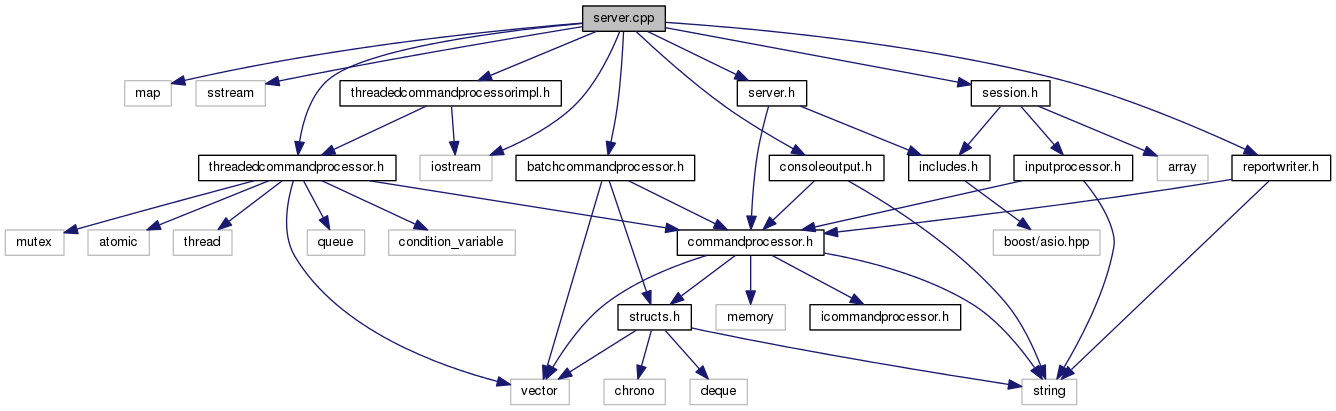
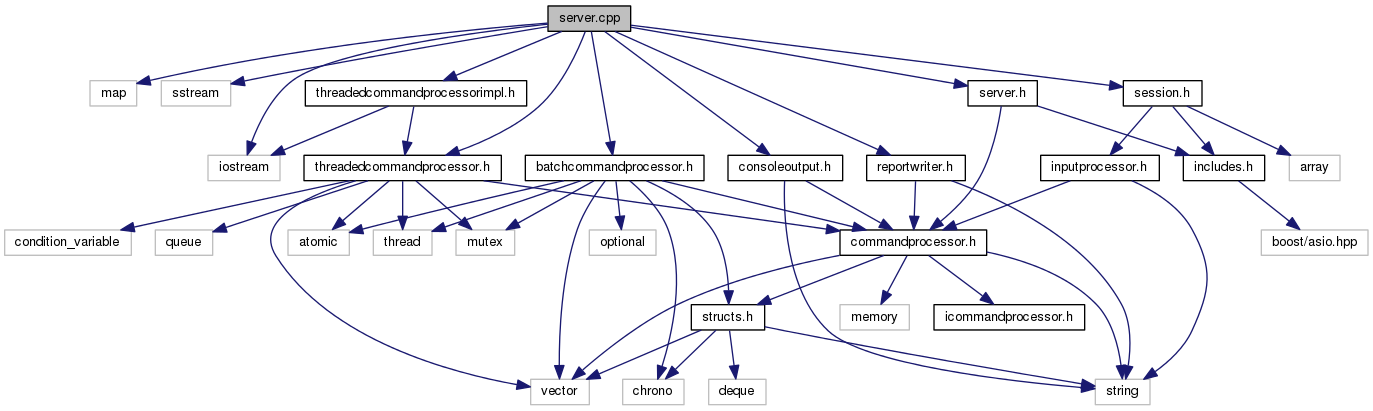
Deploy mgorshkov/bulk_server to github.com/mgorshkov/bulk_server.git:gh-pages

diff --git a/threadedcommandprocessorimpl_8h_source.html b/threadedcommandprocessorimpl_8h_source.html
@@ -147,68 +147,57 @@ var searchBox = new SearchBox("searchBox", "search",false,'Search');
 <div class="line"><a name="l00062"></a><span class="lineno">   62</span>&#160;<span class="preprocessor">#ifdef DEBUG_PRINT</span></div>
 <div class="line"><a name="l00063"></a><span class="lineno">   63</span>&#160;<span class="preprocessor"></span>    std::cout &lt;&lt; <span class="stringliteral">&quot;ThreadedCommandProcessor&lt;DependentProcessor&gt;::Stop()&quot;</span> &lt;&lt; <span class="keyword">this</span> &lt;&lt; std::endl;</div>
 <div class="line"><a name="l00064"></a><span class="lineno">   64</span>&#160;<span class="preprocessor">#endif</span></div>
-<div class="line"><a name="l00065"></a><span class="lineno">   65</span>&#160;<span class="preprocessor"></span><span class="comment">//    mDone = true;</span></div>
-<div class="line"><a name="l00066"></a><span class="lineno">   66</span>&#160;<span class="comment">//    mCondition.notify_all();</span></div>
-<div class="line"><a name="l00067"></a><span class="lineno">   67</span>&#160;<span class="preprocessor">#ifdef DEBUG_PRINT</span></div>
-<div class="line"><a name="l00068"></a><span class="lineno">   68</span>&#160;<span class="preprocessor"></span>    std::cout &lt;&lt; <span class="stringliteral">&quot;ThreadedCommandProcessor&lt;DependentProcessor&gt;::Stop2()&quot;</span> &lt;&lt; <span class="keyword">this</span> &lt;&lt; std::endl;</div>
-<div class="line"><a name="l00069"></a><span class="lineno">   69</span>&#160;<span class="preprocessor">#endif</span></div>
-<div class="line"><a name="l00070"></a><span class="lineno">   70</span>&#160;<span class="preprocessor"></span><span class="comment">//    for (auto&amp; thread : mThreads)</span></div>
-<div class="line"><a name="l00071"></a><span class="lineno">   71</span>&#160;<span class="comment">//        if (thread.joinable())</span></div>
-<div class="line"><a name="l00072"></a><span class="lineno">   72</span>&#160; <span class="comment">//           thread.join();</span></div>
-<div class="line"><a name="l00073"></a><span class="lineno">   73</span>&#160;<span class="preprocessor">#ifdef DEBUG_PRINT</span></div>
-<div class="line"><a name="l00074"></a><span class="lineno">   74</span>&#160;<span class="preprocessor"></span>    std::cout &lt;&lt; <span class="stringliteral">&quot;ThreadedCommandProcessor&lt;DependentProcessor&gt;::Stop3()&quot;</span> &lt;&lt; <span class="keyword">this</span> &lt;&lt; std::endl;</div>
-<div class="line"><a name="l00075"></a><span class="lineno">   75</span>&#160;<span class="preprocessor">#endif</span></div>
-<div class="line"><a name="l00076"></a><span class="lineno">   76</span>&#160;<span class="preprocessor"></span>    <a class="code" href="classCommandProcessor.html#ab72537797793061c66374da42f1944cd">CommandProcessor::Stop</a>();</div>
-<div class="line"><a name="l00077"></a><span class="lineno">   77</span>&#160;<span class="preprocessor">#ifdef DEBUG_PRINT</span></div>
-<div class="line"><a name="l00078"></a><span class="lineno">   78</span>&#160;<span class="preprocessor"></span>    std::cout &lt;&lt; <span class="stringliteral">&quot;ThreadedCommandProcessor&lt;DependentProcessor&gt;::Stop4()&quot;</span> &lt;&lt; <span class="keyword">this</span> &lt;&lt; std::endl;</div>
-<div class="line"><a name="l00079"></a><span class="lineno">   79</span>&#160;<span class="preprocessor">#endif</span></div>
-<div class="line"><a name="l00080"></a><span class="lineno">   80</span>&#160;<span class="preprocessor"></span>}</div>
-<div class="line"><a name="l00081"></a><span class="lineno">   81</span>&#160;</div>
-<div class="line"><a name="l00082"></a><span class="lineno">   82</span>&#160;<span class="keyword">template</span> &lt;<span class="keyword">typename</span> DependentProcessor&gt;</div>
-<div class="line"><a name="l00083"></a><span class="lineno">   83</span>&#160;<span class="keywordtype">void</span> <a class="code" href="classThreadedCommandProcessor.html">ThreadedCommandProcessor&lt;DependentProcessor&gt;::ThreadProc</a>(<span class="keyword">const</span> std::string&amp; aName)</div>
-<div class="line"><a name="l00084"></a><span class="lineno">   84</span>&#160;{</div>
-<div class="line"><a name="l00085"></a><span class="lineno">   85</span>&#160;<span class="preprocessor">#ifdef DEBUG_PRINT</span></div>
-<div class="line"><a name="l00086"></a><span class="lineno">   86</span>&#160;<span class="preprocessor"></span>    std::cout &lt;&lt; <span class="stringliteral">&quot;ThreadedCommandProcessor::ThreadProc start, this==&quot;</span> &lt;&lt; <span class="keyword">this</span> &lt;&lt; std::endl;</div>
-<div class="line"><a name="l00087"></a><span class="lineno">   87</span>&#160;<span class="preprocessor">#endif</span></div>
-<div class="line"><a name="l00088"></a><span class="lineno">   88</span>&#160;<span class="preprocessor"></span>    <span class="keywordflow">try</span></div>
-<div class="line"><a name="l00089"></a><span class="lineno">   89</span>&#160;    {</div>
-<div class="line"><a name="l00090"></a><span class="lineno">   90</span>&#160;        DependentProcessor dependentProcessor(aName);</div>
-<div class="line"><a name="l00091"></a><span class="lineno">   91</span>&#160;</div>
-<div class="line"><a name="l00092"></a><span class="lineno">   92</span>&#160;<span class="preprocessor">#ifdef DEBUG_PRINT</span></div>
-<div class="line"><a name="l00093"></a><span class="lineno">   93</span>&#160;<span class="preprocessor"></span>        std::cout &lt;&lt; <span class="stringliteral">&quot;ThreadedCommandProcessor::ThreadProc 1, this==&quot;</span> &lt;&lt; <span class="keyword">this</span> &lt;&lt; <span class="stringliteral">&quot; &quot;</span> &lt;&lt; aProcessor-&gt;mContext &lt;&lt; std::endl;</div>
-<div class="line"><a name="l00094"></a><span class="lineno">   94</span>&#160;<span class="preprocessor">#endif</span></div>
-<div class="line"><a name="l00095"></a><span class="lineno">   95</span>&#160;<span class="preprocessor"></span>        <span class="keywordflow">while</span> (!mDone.load())</div>
-<div class="line"><a name="l00096"></a><span class="lineno">   96</span>&#160;        {</div>
-<div class="line"><a name="l00097"></a><span class="lineno">   97</span>&#160;            std::unique_lock&lt;std::mutex&gt; lk(mQueueMutex);</div>
-<div class="line"><a name="l00098"></a><span class="lineno">   98</span>&#160;            <span class="keywordflow">while</span> (mQueue.empty() &amp;&amp; !mDone.load())</div>
-<div class="line"><a name="l00099"></a><span class="lineno">   99</span>&#160;                mCondition.wait(lk);</div>
-<div class="line"><a name="l00100"></a><span class="lineno">  100</span>&#160;            ProcessQueue(lk, dependentProcessor);</div>
-<div class="line"><a name="l00101"></a><span class="lineno">  101</span>&#160;        }</div>
-<div class="line"><a name="l00102"></a><span class="lineno">  102</span>&#160;        dependentProcessor.Stop();</div>
-<div class="line"><a name="l00103"></a><span class="lineno">  103</span>&#160;    }</div>
-<div class="line"><a name="l00104"></a><span class="lineno">  104</span>&#160;    <span class="keywordflow">catch</span> (<span class="keyword">const</span> std::exception &amp;e)</div>
-<div class="line"><a name="l00105"></a><span class="lineno">  105</span>&#160;    {</div>
-<div class="line"><a name="l00106"></a><span class="lineno">  106</span>&#160;        std::cerr &lt;&lt; e.what() &lt;&lt; std::endl;</div>
-<div class="line"><a name="l00107"></a><span class="lineno">  107</span>&#160;    }</div>
-<div class="line"><a name="l00108"></a><span class="lineno">  108</span>&#160;<span class="preprocessor">#ifdef DEBUG_PRINT</span></div>
-<div class="line"><a name="l00109"></a><span class="lineno">  109</span>&#160;<span class="preprocessor"></span>    std::cout &lt;&lt; <span class="stringliteral">&quot;ThreadedCommandProcessor::ThreadProc end, this==&quot;</span> &lt;&lt; aProcessor &lt;&lt; std::endl;</div>
-<div class="line"><a name="l00110"></a><span class="lineno">  110</span>&#160;<span class="preprocessor">#endif</span></div>
-<div class="line"><a name="l00111"></a><span class="lineno">  111</span>&#160;<span class="preprocessor"></span>}</div>
-<div class="line"><a name="l00112"></a><span class="lineno">  112</span>&#160;</div>
-<div class="line"><a name="l00113"></a><span class="lineno">  113</span>&#160;<span class="keyword">template</span> &lt;<span class="keyword">typename</span> DependentProcessor&gt;</div>
-<div class="line"><a name="l00114"></a><span class="lineno">  114</span>&#160;<span class="keywordtype">void</span> <a class="code" href="classThreadedCommandProcessor.html">ThreadedCommandProcessor&lt;DependentProcessor&gt;::ProcessQueue</a>(std::unique_lock&lt;std::mutex&gt;&amp; lk, <a class="code" href="classCommandProcessor.html">CommandProcessor</a>&amp; aDependentProcessor)</div>
-<div class="line"><a name="l00115"></a><span class="lineno">  115</span>&#160;{</div>
-<div class="line"><a name="l00116"></a><span class="lineno">  116</span>&#160;    std::queue&lt;CommandBatch&gt; queue;</div>
-<div class="line"><a name="l00117"></a><span class="lineno">  117</span>&#160;    std::swap(mQueue, queue);</div>
-<div class="line"><a name="l00118"></a><span class="lineno">  118</span>&#160;    lk.unlock();</div>
-<div class="line"><a name="l00119"></a><span class="lineno">  119</span>&#160;    <span class="keywordflow">while</span> (!queue.empty())</div>
-<div class="line"><a name="l00120"></a><span class="lineno">  120</span>&#160;    {</div>
-<div class="line"><a name="l00121"></a><span class="lineno">  121</span>&#160;        <span class="keyword">auto</span> commandBatch = queue.front();</div>
-<div class="line"><a name="l00122"></a><span class="lineno">  122</span>&#160;        queue.pop();</div>
-<div class="line"><a name="l00123"></a><span class="lineno">  123</span>&#160;        aDependentProcessor.<a class="code" href="classCommandProcessor.html#a68124cc0f45ebfbfd503c46ccd130fab">ProcessBatch</a>(commandBatch);</div>
-<div class="line"><a name="l00124"></a><span class="lineno">  124</span>&#160;    }</div>
-<div class="line"><a name="l00125"></a><span class="lineno">  125</span>&#160;}</div>
-<div class="line"><a name="l00126"></a><span class="lineno">  126</span>&#160;</div>
+<div class="line"><a name="l00065"></a><span class="lineno">   65</span>&#160;<span class="preprocessor"></span>    <a class="code" href="classCommandProcessor.html#ab72537797793061c66374da42f1944cd">CommandProcessor::Stop</a>();</div>
+<div class="line"><a name="l00066"></a><span class="lineno">   66</span>&#160;<span class="preprocessor">#ifdef DEBUG_PRINT</span></div>
+<div class="line"><a name="l00067"></a><span class="lineno">   67</span>&#160;<span class="preprocessor"></span>    std::cout &lt;&lt; <span class="stringliteral">&quot;ThreadedCommandProcessor&lt;DependentProcessor&gt;::Stop2()&quot;</span> &lt;&lt; <span class="keyword">this</span> &lt;&lt; std::endl;</div>
+<div class="line"><a name="l00068"></a><span class="lineno">   68</span>&#160;<span class="preprocessor">#endif</span></div>
+<div class="line"><a name="l00069"></a><span class="lineno">   69</span>&#160;<span class="preprocessor"></span>}</div>
+<div class="line"><a name="l00070"></a><span class="lineno">   70</span>&#160;</div>
+<div class="line"><a name="l00071"></a><span class="lineno">   71</span>&#160;<span class="keyword">template</span> &lt;<span class="keyword">typename</span> DependentProcessor&gt;</div>
+<div class="line"><a name="l00072"></a><span class="lineno">   72</span>&#160;<span class="keywordtype">void</span> <a class="code" href="classThreadedCommandProcessor.html">ThreadedCommandProcessor&lt;DependentProcessor&gt;::ThreadProc</a>(<span class="keyword">const</span> std::string&amp; aName)</div>
+<div class="line"><a name="l00073"></a><span class="lineno">   73</span>&#160;{</div>
+<div class="line"><a name="l00074"></a><span class="lineno">   74</span>&#160;<span class="preprocessor">#ifdef DEBUG_PRINT</span></div>
+<div class="line"><a name="l00075"></a><span class="lineno">   75</span>&#160;<span class="preprocessor"></span>    std::cout &lt;&lt; <span class="stringliteral">&quot;ThreadedCommandProcessor::ThreadProc start, this==&quot;</span> &lt;&lt; <span class="keyword">this</span> &lt;&lt; std::endl;</div>
+<div class="line"><a name="l00076"></a><span class="lineno">   76</span>&#160;<span class="preprocessor">#endif</span></div>
+<div class="line"><a name="l00077"></a><span class="lineno">   77</span>&#160;<span class="preprocessor"></span>    <span class="keywordflow">try</span></div>
+<div class="line"><a name="l00078"></a><span class="lineno">   78</span>&#160;    {</div>
+<div class="line"><a name="l00079"></a><span class="lineno">   79</span>&#160;        DependentProcessor dependentProcessor(aName);</div>
+<div class="line"><a name="l00080"></a><span class="lineno">   80</span>&#160;</div>
+<div class="line"><a name="l00081"></a><span class="lineno">   81</span>&#160;<span class="preprocessor">#ifdef DEBUG_PRINT</span></div>
+<div class="line"><a name="l00082"></a><span class="lineno">   82</span>&#160;<span class="preprocessor"></span>        std::cout &lt;&lt; <span class="stringliteral">&quot;ThreadedCommandProcessor::ThreadProc 1, this==&quot;</span> &lt;&lt; <span class="keyword">this</span> &lt;&lt; <span class="stringliteral">&quot; &quot;</span> &lt;&lt; aProcessor-&gt;mContext &lt;&lt; std::endl;</div>
+<div class="line"><a name="l00083"></a><span class="lineno">   83</span>&#160;<span class="preprocessor">#endif</span></div>
+<div class="line"><a name="l00084"></a><span class="lineno">   84</span>&#160;<span class="preprocessor"></span>        <span class="keywordflow">while</span> (!mDone.load())</div>
+<div class="line"><a name="l00085"></a><span class="lineno">   85</span>&#160;        {</div>
+<div class="line"><a name="l00086"></a><span class="lineno">   86</span>&#160;            std::unique_lock&lt;std::mutex&gt; lk(mQueueMutex);</div>
+<div class="line"><a name="l00087"></a><span class="lineno">   87</span>&#160;            <span class="keywordflow">while</span> (mQueue.empty() &amp;&amp; !mDone.load())</div>
+<div class="line"><a name="l00088"></a><span class="lineno">   88</span>&#160;                mCondition.wait(lk);</div>
+<div class="line"><a name="l00089"></a><span class="lineno">   89</span>&#160;            ProcessQueue(lk, dependentProcessor);</div>
+<div class="line"><a name="l00090"></a><span class="lineno">   90</span>&#160;        }</div>
+<div class="line"><a name="l00091"></a><span class="lineno">   91</span>&#160;        dependentProcessor.Stop();</div>
+<div class="line"><a name="l00092"></a><span class="lineno">   92</span>&#160;    }</div>
+<div class="line"><a name="l00093"></a><span class="lineno">   93</span>&#160;    <span class="keywordflow">catch</span> (<span class="keyword">const</span> std::exception &amp;e)</div>
+<div class="line"><a name="l00094"></a><span class="lineno">   94</span>&#160;    {</div>
+<div class="line"><a name="l00095"></a><span class="lineno">   95</span>&#160;        std::cerr &lt;&lt; e.what() &lt;&lt; std::endl;</div>
+<div class="line"><a name="l00096"></a><span class="lineno">   96</span>&#160;    }</div>
+<div class="line"><a name="l00097"></a><span class="lineno">   97</span>&#160;<span class="preprocessor">#ifdef DEBUG_PRINT</span></div>
+<div class="line"><a name="l00098"></a><span class="lineno">   98</span>&#160;<span class="preprocessor"></span>    std::cout &lt;&lt; <span class="stringliteral">&quot;ThreadedCommandProcessor::ThreadProc end, this==&quot;</span> &lt;&lt; aProcessor &lt;&lt; std::endl;</div>
+<div class="line"><a name="l00099"></a><span class="lineno">   99</span>&#160;<span class="preprocessor">#endif</span></div>
+<div class="line"><a name="l00100"></a><span class="lineno">  100</span>&#160;<span class="preprocessor"></span>}</div>
+<div class="line"><a name="l00101"></a><span class="lineno">  101</span>&#160;</div>
+<div class="line"><a name="l00102"></a><span class="lineno">  102</span>&#160;<span class="keyword">template</span> &lt;<span class="keyword">typename</span> DependentProcessor&gt;</div>
+<div class="line"><a name="l00103"></a><span class="lineno">  103</span>&#160;<span class="keywordtype">void</span> <a class="code" href="classThreadedCommandProcessor.html">ThreadedCommandProcessor&lt;DependentProcessor&gt;::ProcessQueue</a>(std::unique_lock&lt;std::mutex&gt;&amp; lk, <a class="code" href="classCommandProcessor.html">CommandProcessor</a>&amp; aDependentProcessor)</div>
+<div class="line"><a name="l00104"></a><span class="lineno">  104</span>&#160;{</div>
+<div class="line"><a name="l00105"></a><span class="lineno">  105</span>&#160;    std::queue&lt;CommandBatch&gt; queue;</div>
+<div class="line"><a name="l00106"></a><span class="lineno">  106</span>&#160;    std::swap(mQueue, queue);</div>
+<div class="line"><a name="l00107"></a><span class="lineno">  107</span>&#160;    lk.unlock();</div>
+<div class="line"><a name="l00108"></a><span class="lineno">  108</span>&#160;    <span class="keywordflow">while</span> (!queue.empty())</div>
+<div class="line"><a name="l00109"></a><span class="lineno">  109</span>&#160;    {</div>
+<div class="line"><a name="l00110"></a><span class="lineno">  110</span>&#160;        <span class="keyword">auto</span> commandBatch = queue.front();</div>
+<div class="line"><a name="l00111"></a><span class="lineno">  111</span>&#160;        queue.pop();</div>
+<div class="line"><a name="l00112"></a><span class="lineno">  112</span>&#160;        aDependentProcessor.<a class="code" href="classCommandProcessor.html#a68124cc0f45ebfbfd503c46ccd130fab">ProcessBatch</a>(commandBatch);</div>
+<div class="line"><a name="l00113"></a><span class="lineno">  113</span>&#160;    }</div>
+<div class="line"><a name="l00114"></a><span class="lineno">  114</span>&#160;}</div>
+<div class="line"><a name="l00115"></a><span class="lineno">  115</span>&#160;</div>
 <div class="ttc" id="classThreadedCommandProcessor_html_adc17729e4ddbcc4e800ef4553b9c1841"><div class="ttname"><a href="classThreadedCommandProcessor.html#adc17729e4ddbcc4e800ef4553b9c1841">ThreadedCommandProcessor::ProcessBatch</a></div><div class="ttdeci">void ProcessBatch(const CommandBatch &amp;aCommandBatch) override</div><div class="ttdef"><b>Definition:</b> threadedcommandprocessorimpl.h:41</div></div>
 <div class="ttc" id="classCommandProcessor_html_ab72537797793061c66374da42f1944cd"><div class="ttname"><a href="classCommandProcessor.html#ab72537797793061c66374da42f1944cd">CommandProcessor::Stop</a></div><div class="ttdeci">void Stop() override</div><div class="ttdef"><b>Definition:</b> commandprocessor.cpp:49</div></div>
 <div class="ttc" id="classThreadedCommandProcessor_html_a95d4f3e4b770522ea8913e15e2d1b29f"><div class="ttname"><a href="classThreadedCommandProcessor.html#a95d4f3e4b770522ea8913e15e2d1b29f">ThreadedCommandProcessor::Stop</a></div><div class="ttdeci">void Stop() override</div><div class="ttdef"><b>Definition:</b> threadedcommandprocessorimpl.h:60</div></div>

diff --git a/batchcommandprocessor_8h_source.html b/batchcommandprocessor_8h_source.html
@@ -87,39 +87,50 @@ var searchBox = new SearchBox("searchBox", "search",false,'Search');
 <a href="batchcommandprocessor_8h.html">Go to the documentation of this file.</a><div class="fragment"><div class="line"><a name="l00001"></a><span class="lineno">    1</span>&#160;<span class="preprocessor">#pragma once</span></div>
 <div class="line"><a name="l00002"></a><span class="lineno">    2</span>&#160;<span class="preprocessor"></span></div>
 <div class="line"><a name="l00003"></a><span class="lineno">    3</span>&#160;<span class="preprocessor">#include &lt;vector&gt;</span></div>
-<div class="line"><a name="l00004"></a><span class="lineno">    4</span>&#160;</div>
-<div class="line"><a name="l00005"></a><span class="lineno">    5</span>&#160;<span class="preprocessor">#include &quot;<a class="code" href="structs_8h.html">structs.h</a>&quot;</span></div>
-<div class="line"><a name="l00006"></a><span class="lineno">    6</span>&#160;<span class="preprocessor">#include &quot;<a class="code" href="commandprocessor_8h.html">commandprocessor.h</a>&quot;</span></div>
-<div class="line"><a name="l00007"></a><span class="lineno">    7</span>&#160;</div>
-<div class="line"><a name="l00008"></a><span class="lineno"><a class="line" href="classBatchCommandProcessor.html">    8</a></span>&#160;<span class="keyword">class </span><a class="code" href="classBatchCommandProcessor.html">BatchCommandProcessor</a> : <span class="keyword">public</span> <a class="code" href="classCommandProcessor.html">CommandProcessor</a></div>
-<div class="line"><a name="l00009"></a><span class="lineno">    9</span>&#160;{</div>
-<div class="line"><a name="l00010"></a><span class="lineno">   10</span>&#160;<span class="keyword">public</span>:</div>
-<div class="line"><a name="l00011"></a><span class="lineno">   11</span>&#160;    <a class="code" href="classBatchCommandProcessor.html#ab3ad2e6e28139e48de42c2ee974c49e5">BatchCommandProcessor</a>(<span class="keyword">const</span> std::string&amp; aName, std::size_t aBulkSize, <span class="keyword">const</span> <a class="code" href="commandprocessor_8h.html#a9cf347a754bf63f614ac03897127ab92">CommandProcessors</a>&amp; aDependentCommandProcessors);</div>
+<div class="line"><a name="l00004"></a><span class="lineno">    4</span>&#160;<span class="preprocessor">#include &lt;thread&gt;</span></div>
+<div class="line"><a name="l00005"></a><span class="lineno">    5</span>&#160;<span class="preprocessor">#include &lt;mutex&gt;</span></div>
+<div class="line"><a name="l00006"></a><span class="lineno">    6</span>&#160;<span class="preprocessor">#include &lt;atomic&gt;</span></div>
+<div class="line"><a name="l00007"></a><span class="lineno">    7</span>&#160;<span class="preprocessor">#include &lt;chrono&gt;</span></div>
+<div class="line"><a name="l00008"></a><span class="lineno">    8</span>&#160;<span class="preprocessor">#include &lt;optional&gt;</span></div>
+<div class="line"><a name="l00009"></a><span class="lineno">    9</span>&#160;</div>
+<div class="line"><a name="l00010"></a><span class="lineno">   10</span>&#160;<span class="preprocessor">#include &quot;<a class="code" href="structs_8h.html">structs.h</a>&quot;</span></div>
+<div class="line"><a name="l00011"></a><span class="lineno">   11</span>&#160;<span class="preprocessor">#include &quot;<a class="code" href="commandprocessor_8h.html">commandprocessor.h</a>&quot;</span></div>
 <div class="line"><a name="l00012"></a><span class="lineno">   12</span>&#160;</div>
-<div class="line"><a name="l00013"></a><span class="lineno">   13</span>&#160;    <span class="keywordtype">void</span> <a class="code" href="classBatchCommandProcessor.html#a959a91443b21461a36aa9081ad86d0c6">StartBlock</a>() <span class="keyword">override</span>;</div>
-<div class="line"><a name="l00014"></a><span class="lineno">   14</span>&#160;    <span class="keywordtype">void</span> <a class="code" href="classBatchCommandProcessor.html#a0ee4f6e501dacc0b28712dedeb59f3dc">FinishBlock</a>() <span class="keyword">override</span>;</div>
-<div class="line"><a name="l00015"></a><span class="lineno">   15</span>&#160;</div>
-<div class="line"><a name="l00016"></a><span class="lineno">   16</span>&#160;    <span class="keywordtype">void</span> <a class="code" href="classBatchCommandProcessor.html#a54bf8da297e8187c0d1b06d864426f92">ProcessCommand</a>(<span class="keyword">const</span> <a class="code" href="structCommand.html">Command</a>&amp; aCommand) <span class="keyword">override</span>;</div>
-<div class="line"><a name="l00017"></a><span class="lineno">   17</span>&#160;    <span class="keywordtype">void</span> <a class="code" href="classBatchCommandProcessor.html#a317c17b2a996d0bb1ce85b9e5cd3d473">Stop</a>() <span class="keyword">override</span>;</div>
-<div class="line"><a name="l00018"></a><span class="lineno">   18</span>&#160;</div>
-<div class="line"><a name="l00019"></a><span class="lineno">   19</span>&#160;<span class="keyword">private</span>:</div>
-<div class="line"><a name="l00020"></a><span class="lineno">   20</span>&#160;    <span class="keywordtype">void</span> ClearBatch();</div>
-<div class="line"><a name="l00021"></a><span class="lineno">   21</span>&#160;    <span class="keywordtype">void</span> DumpBatch();</div>
-<div class="line"><a name="l00022"></a><span class="lineno">   22</span>&#160;</div>
-<div class="line"><a name="l00023"></a><span class="lineno">   23</span>&#160;    std::size_t mBulkSize;</div>
-<div class="line"><a name="l00024"></a><span class="lineno">   24</span>&#160;    <span class="keywordtype">bool</span> mBlockForced;</div>
-<div class="line"><a name="l00025"></a><span class="lineno">   25</span>&#160;    std::vector&lt;Command&gt; mCommandBatch;</div>
-<div class="line"><a name="l00026"></a><span class="lineno">   26</span>&#160;};</div>
+<div class="line"><a name="l00013"></a><span class="lineno"><a class="line" href="classBatchCommandProcessor.html">   13</a></span>&#160;<span class="keyword">class </span><a class="code" href="classBatchCommandProcessor.html">BatchCommandProcessor</a> : <span class="keyword">public</span> <a class="code" href="classCommandProcessor.html">CommandProcessor</a></div>
+<div class="line"><a name="l00014"></a><span class="lineno">   14</span>&#160;{</div>
+<div class="line"><a name="l00015"></a><span class="lineno">   15</span>&#160;<span class="keyword">public</span>:</div>
+<div class="line"><a name="l00016"></a><span class="lineno">   16</span>&#160;    <a class="code" href="classBatchCommandProcessor.html#ab3ad2e6e28139e48de42c2ee974c49e5">BatchCommandProcessor</a>(<span class="keyword">const</span> std::string&amp; aName, std::size_t aBulkSize, <span class="keyword">const</span> <a class="code" href="commandprocessor_8h.html#a9cf347a754bf63f614ac03897127ab92">CommandProcessors</a>&amp; aDependentCommandProcessors);</div>
+<div class="line"><a name="l00017"></a><span class="lineno">   17</span>&#160;</div>
+<div class="line"><a name="l00018"></a><span class="lineno">   18</span>&#160;    <span class="keywordtype">void</span> <a class="code" href="classBatchCommandProcessor.html#a959a91443b21461a36aa9081ad86d0c6">StartBlock</a>() <span class="keyword">override</span>;</div>
+<div class="line"><a name="l00019"></a><span class="lineno">   19</span>&#160;    <span class="keywordtype">void</span> <a class="code" href="classBatchCommandProcessor.html#a0ee4f6e501dacc0b28712dedeb59f3dc">FinishBlock</a>() <span class="keyword">override</span>;</div>
+<div class="line"><a name="l00020"></a><span class="lineno">   20</span>&#160;</div>
+<div class="line"><a name="l00021"></a><span class="lineno">   21</span>&#160;    <span class="keywordtype">void</span> <a class="code" href="classBatchCommandProcessor.html#a54bf8da297e8187c0d1b06d864426f92">ProcessCommand</a>(<span class="keyword">const</span> <a class="code" href="structCommand.html">Command</a>&amp; aCommand) <span class="keyword">override</span>;</div>
+<div class="line"><a name="l00022"></a><span class="lineno">   22</span>&#160;    <span class="keywordtype">void</span> <a class="code" href="classBatchCommandProcessor.html#a317c17b2a996d0bb1ce85b9e5cd3d473">Stop</a>() <span class="keyword">override</span>;</div>
+<div class="line"><a name="l00023"></a><span class="lineno">   23</span>&#160;</div>
+<div class="line"><a name="l00024"></a><span class="lineno">   24</span>&#160;<span class="keyword">private</span>:</div>
+<div class="line"><a name="l00025"></a><span class="lineno">   25</span>&#160;    <span class="keywordtype">void</span> ClearBatch();</div>
+<div class="line"><a name="l00026"></a><span class="lineno">   26</span>&#160;    <span class="keywordtype">void</span> DumpBatch();</div>
+<div class="line"><a name="l00027"></a><span class="lineno">   27</span>&#160;</div>
+<div class="line"><a name="l00028"></a><span class="lineno">   28</span>&#160;    <span class="keywordtype">void</span> ThreadProc();</div>
+<div class="line"><a name="l00029"></a><span class="lineno">   29</span>&#160;</div>
+<div class="line"><a name="l00030"></a><span class="lineno">   30</span>&#160;    std::size_t mBulkSize;</div>
+<div class="line"><a name="l00031"></a><span class="lineno">   31</span>&#160;    <span class="keywordtype">bool</span> mBlockForced;</div>
+<div class="line"><a name="l00032"></a><span class="lineno">   32</span>&#160;    std::vector&lt;Command&gt; mCommandBatch;</div>
+<div class="line"><a name="l00033"></a><span class="lineno">   33</span>&#160;    std::thread mAutoDumpThread;</div>
+<div class="line"><a name="l00034"></a><span class="lineno">   34</span>&#160;    std::optional&lt;std::chrono::system_clock::time_point&gt; mLastCommandTimestamp;</div>
+<div class="line"><a name="l00035"></a><span class="lineno">   35</span>&#160;    std::mutex mBatchMutex;</div>
+<div class="line"><a name="l00036"></a><span class="lineno">   36</span>&#160;    std::atomic&lt;bool&gt; mDone;</div>
+<div class="line"><a name="l00037"></a><span class="lineno">   37</span>&#160;};</div>
 <div class="ttc" id="structs_8h_html"><div class="ttname"><a href="structs_8h.html">structs.h</a></div></div>
-<div class="ttc" id="classBatchCommandProcessor_html_a54bf8da297e8187c0d1b06d864426f92"><div class="ttname"><a href="classBatchCommandProcessor.html#a54bf8da297e8187c0d1b06d864426f92">BatchCommandProcessor::ProcessCommand</a></div><div class="ttdeci">void ProcessCommand(const Command &amp;aCommand) override</div><div class="ttdef"><b>Definition:</b> batchcommandprocessor.cpp:22</div></div>
+<div class="ttc" id="classBatchCommandProcessor_html_a54bf8da297e8187c0d1b06d864426f92"><div class="ttname"><a href="classBatchCommandProcessor.html#a54bf8da297e8187c0d1b06d864426f92">BatchCommandProcessor::ProcessCommand</a></div><div class="ttdeci">void ProcessCommand(const Command &amp;aCommand) override</div><div class="ttdef"><b>Definition:</b> batchcommandprocessor.cpp:25</div></div>
 <div class="ttc" id="structCommand_html"><div class="ttname"><a href="structCommand.html">Command</a></div><div class="ttdef"><b>Definition:</b> structs.h:10</div></div>
 <div class="ttc" id="commandprocessor_8h_html_a9cf347a754bf63f614ac03897127ab92"><div class="ttname"><a href="commandprocessor_8h.html#a9cf347a754bf63f614ac03897127ab92">CommandProcessors</a></div><div class="ttdeci">std::vector&lt; std::shared_ptr&lt; ICommandProcessor &gt;&gt; CommandProcessors</div><div class="ttdef"><b>Definition:</b> commandprocessor.h:10</div></div>
-<div class="ttc" id="classBatchCommandProcessor_html_a959a91443b21461a36aa9081ad86d0c6"><div class="ttname"><a href="classBatchCommandProcessor.html#a959a91443b21461a36aa9081ad86d0c6">BatchCommandProcessor::StartBlock</a></div><div class="ttdeci">void StartBlock() override</div><div class="ttdef"><b>Definition:</b> batchcommandprocessor.cpp:10</div></div>
+<div class="ttc" id="classBatchCommandProcessor_html_a959a91443b21461a36aa9081ad86d0c6"><div class="ttname"><a href="classBatchCommandProcessor.html#a959a91443b21461a36aa9081ad86d0c6">BatchCommandProcessor::StartBlock</a></div><div class="ttdeci">void StartBlock() override</div><div class="ttdef"><b>Definition:</b> batchcommandprocessor.cpp:13</div></div>
 <div class="ttc" id="classCommandProcessor_html"><div class="ttname"><a href="classCommandProcessor.html">CommandProcessor</a></div><div class="ttdef"><b>Definition:</b> commandprocessor.h:12</div></div>
-<div class="ttc" id="classBatchCommandProcessor_html"><div class="ttname"><a href="classBatchCommandProcessor.html">BatchCommandProcessor</a></div><div class="ttdef"><b>Definition:</b> batchcommandprocessor.h:8</div></div>
-<div class="ttc" id="classBatchCommandProcessor_html_ab3ad2e6e28139e48de42c2ee974c49e5"><div class="ttname"><a href="classBatchCommandProcessor.html#ab3ad2e6e28139e48de42c2ee974c49e5">BatchCommandProcessor::BatchCommandProcessor</a></div><div class="ttdeci">BatchCommandProcessor(const std::string &amp;aName, std::size_t aBulkSize, const CommandProcessors &amp;aDependentCommandProcessors)</div><div class="ttdef"><b>Definition:</b> batchcommandprocessor.cpp:3</div></div>
-<div class="ttc" id="classBatchCommandProcessor_html_a317c17b2a996d0bb1ce85b9e5cd3d473"><div class="ttname"><a href="classBatchCommandProcessor.html#a317c17b2a996d0bb1ce85b9e5cd3d473">BatchCommandProcessor::Stop</a></div><div class="ttdeci">void Stop() override</div><div class="ttdef"><b>Definition:</b> batchcommandprocessor.cpp:32</div></div>
-<div class="ttc" id="classBatchCommandProcessor_html_a0ee4f6e501dacc0b28712dedeb59f3dc"><div class="ttname"><a href="classBatchCommandProcessor.html#a0ee4f6e501dacc0b28712dedeb59f3dc">BatchCommandProcessor::FinishBlock</a></div><div class="ttdeci">void FinishBlock() override</div><div class="ttdef"><b>Definition:</b> batchcommandprocessor.cpp:16</div></div>
+<div class="ttc" id="classBatchCommandProcessor_html"><div class="ttname"><a href="classBatchCommandProcessor.html">BatchCommandProcessor</a></div><div class="ttdef"><b>Definition:</b> batchcommandprocessor.h:13</div></div>
+<div class="ttc" id="classBatchCommandProcessor_html_ab3ad2e6e28139e48de42c2ee974c49e5"><div class="ttname"><a href="classBatchCommandProcessor.html#ab3ad2e6e28139e48de42c2ee974c49e5">BatchCommandProcessor::BatchCommandProcessor</a></div><div class="ttdeci">BatchCommandProcessor(const std::string &amp;aName, std::size_t aBulkSize, const CommandProcessors &amp;aDependentCommandProcessors)</div><div class="ttdef"><b>Definition:</b> batchcommandprocessor.cpp:4</div></div>
+<div class="ttc" id="classBatchCommandProcessor_html_a317c17b2a996d0bb1ce85b9e5cd3d473"><div class="ttname"><a href="classBatchCommandProcessor.html#a317c17b2a996d0bb1ce85b9e5cd3d473">BatchCommandProcessor::Stop</a></div><div class="ttdeci">void Stop() override</div><div class="ttdef"><b>Definition:</b> batchcommandprocessor.cpp:37</div></div>
+<div class="ttc" id="classBatchCommandProcessor_html_a0ee4f6e501dacc0b28712dedeb59f3dc"><div class="ttname"><a href="classBatchCommandProcessor.html#a0ee4f6e501dacc0b28712dedeb59f3dc">BatchCommandProcessor::FinishBlock</a></div><div class="ttdeci">void FinishBlock() override</div><div class="ttdef"><b>Definition:</b> batchcommandprocessor.cpp:19</div></div>
 <div class="ttc" id="commandprocessor_8h_html"><div class="ttname"><a href="commandprocessor_8h.html">commandprocessor.h</a></div></div>
 </div><!-- fragment --></div><!-- contents -->
 <!-- start footer part -->

diff --git a/server_8cpp.html b/server_8cpp.html
@@ -102,7 +102,7 @@ Include dependency graph for server.cpp:</div>
 <div class="dyncontent">
 <div class="center"><img src="server_8cpp__incl.png" border="0" usemap="#server_8cpp" alt=""/></div>
 <map name="server_8cpp" id="server_8cpp">
-<area shape="rect" id="node5" href="server_8h.html" title="server.h" alt="" coords="737,80,807,107"/><area shape="rect" id="node16" href="session_8h.html" title="session.h" alt="" coords="971,80,1049,107"/><area shape="rect" id="node19" href="threadedcommandprocessor_8h.html" title="threadedcommandprocessor.h" alt="" coords="199,155,396,181"/><area shape="rect" id="node25" href="threadedcommandprocessorimpl_8h.html" title="threadedcommandprocessorimpl.h" alt="" coords="340,80,561,107"/><area shape="rect" id="node26" href="consoleoutput_8h.html" title="consoleoutput.h" alt="" coords="769,155,884,181"/><area shape="rect" id="node27" href="batchcommandprocessor_8h.html" title="batchcommandprocessor.h" alt="" coords="516,155,695,181"/><area shape="rect" id="node28" href="reportwriter_8h.html" title="reportwriter.h" alt="" coords="1232,155,1331,181"/><area shape="rect" id="node6" href="includes_8h.html" title="includes.h" alt="" coords="909,155,989,181"/><area shape="rect" id="node8" href="commandprocessor_8h.html" title="commandprocessor.h" alt="" coords="677,229,824,256"/><area shape="rect" id="node12" href="structs_8h.html" title="structs.h" alt="" coords="618,304,691,331"/><area shape="rect" id="node15" href="icommandprocessor_8h.html" title="icommandprocessor.h" alt="" coords="810,304,960,331"/><area shape="rect" id="node18" href="inputprocessor_8h.html" title="inputprocessor.h" alt="" coords="1014,155,1132,181"/></map>
+<area shape="rect" id="node5" href="server_8h.html" title="server.h" alt="" coords="968,80,1037,107"/><area shape="rect" id="node16" href="session_8h.html" title="session.h" alt="" coords="1123,80,1201,107"/><area shape="rect" id="node19" href="threadedcommandprocessor_8h.html" title="threadedcommandprocessor.h" alt="" coords="304,155,501,181"/><area shape="rect" id="node25" href="threadedcommandprocessorimpl_8h.html" title="threadedcommandprocessorimpl.h" alt="" coords="305,80,527,107"/><area shape="rect" id="node26" href="consoleoutput_8h.html" title="consoleoutput.h" alt="" coords="728,155,843,181"/><area shape="rect" id="node27" href="batchcommandprocessor_8h.html" title="batchcommandprocessor.h" alt="" coords="525,155,704,181"/><area shape="rect" id="node29" href="reportwriter_8h.html" title="reportwriter.h" alt="" coords="867,155,965,181"/><area shape="rect" id="node6" href="includes_8h.html" title="includes.h" alt="" coords="1183,155,1264,181"/><area shape="rect" id="node8" href="commandprocessor_8h.html" title="commandprocessor.h" alt="" coords="840,229,987,256"/><area shape="rect" id="node12" href="structs_8h.html" title="structs.h" alt="" coords="691,304,764,331"/><area shape="rect" id="node15" href="icommandprocessor_8h.html" title="icommandprocessor.h" alt="" coords="934,304,1084,331"/><area shape="rect" id="node18" href="inputprocessor_8h.html" title="inputprocessor.h" alt="" coords="1041,155,1159,181"/></map>
 </div>
 </div><table class="memberdecls">
 <tr class="heading"><td colspan="2"><h2 class="groupheader"><a name="define-members"></a>

diff --git a/classICommandProcessor.html b/classICommandProcessor.html
@@ -164,7 +164,7 @@ Public Member Functions</h2></td></tr>
 </table>
 </div><div class="memdoc">
 
-<p>Implemented in <a class="el" href="classCommandProcessor.html#acc8b645095530ed5eff11740d9dc644d">CommandProcessor</a>, and <a class="el" href="classBatchCommandProcessor.html#a0ee4f6e501dacc0b28712dedeb59f3dc">BatchCommandProcessor</a>.</p>
+<p>Implemented in <a class="el" href="classBatchCommandProcessor.html#a0ee4f6e501dacc0b28712dedeb59f3dc">BatchCommandProcessor</a>, and <a class="el" href="classCommandProcessor.html#acc8b645095530ed5eff11740d9dc644d">CommandProcessor</a>.</p>
 
 </div>
 </div>
@@ -292,7 +292,7 @@ Public Member Functions</h2></td></tr>
 </table>
 </div><div class="memdoc">
 
-<p>Implemented in <a class="el" href="classCommandProcessor.html#ab3b53d8fa34f1c577578cc6bddfdfb72">CommandProcessor</a>, and <a class="el" href="classBatchCommandProcessor.html#a959a91443b21461a36aa9081ad86d0c6">BatchCommandProcessor</a>.</p>
+<p>Implemented in <a class="el" href="classBatchCommandProcessor.html#a959a91443b21461a36aa9081ad86d0c6">BatchCommandProcessor</a>, and <a class="el" href="classCommandProcessor.html#ab3b53d8fa34f1c577578cc6bddfdfb72">CommandProcessor</a>.</p>
 
 </div>
 </div>
@@ -317,7 +317,7 @@ Public Member Functions</h2></td></tr>
 </table>
 </div><div class="memdoc">
 
-<p>Implemented in <a class="el" href="classCommandProcessor.html#ab72537797793061c66374da42f1944cd">CommandProcessor</a>, <a class="el" href="classThreadedCommandProcessor.html#a95d4f3e4b770522ea8913e15e2d1b29f">ThreadedCommandProcessor&lt; DependentProcessor &gt;</a>, and <a class="el" href="classBatchCommandProcessor.html#a317c17b2a996d0bb1ce85b9e5cd3d473">BatchCommandProcessor</a>.</p>
+<p>Implemented in <a class="el" href="classCommandProcessor.html#ab72537797793061c66374da42f1944cd">CommandProcessor</a>, <a class="el" href="classBatchCommandProcessor.html#a317c17b2a996d0bb1ce85b9e5cd3d473">BatchCommandProcessor</a>, and <a class="el" href="classThreadedCommandProcessor.html#a95d4f3e4b770522ea8913e15e2d1b29f">ThreadedCommandProcessor&lt; DependentProcessor &gt;</a>.</p>
 
 </div>
 </div>

diff --git a/batchcommandprocessor_8h.html b/batchcommandprocessor_8h.html
@@ -87,6 +87,11 @@ var searchBox = new SearchBox("searchBox", "search",false,'Search');
 </div><!--header-->
 <div class="contents">
 <div class="textblock"><code>#include &lt;vector&gt;</code><br/>
+<code>#include &lt;thread&gt;</code><br/>
+<code>#include &lt;mutex&gt;</code><br/>
+<code>#include &lt;atomic&gt;</code><br/>
+<code>#include &lt;chrono&gt;</code><br/>
+<code>#include &lt;optional&gt;</code><br/>
 <code>#include &quot;<a class="el" href="structs_8h_source.html">structs.h</a>&quot;</code><br/>
 <code>#include &quot;<a class="el" href="commandprocessor_8h_source.html">commandprocessor.h</a>&quot;</code><br/>
 </div><div class="textblock"><div class="dynheader">
@@ -94,7 +99,7 @@ Include dependency graph for batchcommandprocessor.h:</div>
 <div class="dyncontent">
 <div class="center"><img src="batchcommandprocessor_8h__incl.png" border="0" usemap="#batchcommandprocessor_8h" alt=""/></div>
 <map name="batchcommandprocessor_8h" id="batchcommandprocessor_8h">
-<area shape="rect" id="node3" href="structs_8h.html" title="structs.h" alt="" coords="123,155,196,181"/><area shape="rect" id="node7" href="commandprocessor_8h.html" title="commandprocessor.h" alt="" coords="161,80,308,107"/><area shape="rect" id="node9" href="icommandprocessor_8h.html" title="icommandprocessor.h" alt="" coords="366,155,516,181"/></map>
+<area shape="rect" id="node8" href="structs_8h.html" title="structs.h" alt="" coords="86,155,159,181"/><area shape="rect" id="node11" href="commandprocessor_8h.html" title="commandprocessor.h" alt="" coords="211,80,357,107"/><area shape="rect" id="node13" href="icommandprocessor_8h.html" title="icommandprocessor.h" alt="" coords="379,155,529,181"/></map>
 </div>
 </div><div class="textblock"><div class="dynheader">
 This graph shows which files directly or indirectly include this file:</div>

diff --git a/batchcommandprocessor_8cpp.html b/batchcommandprocessor_8cpp.html
@@ -85,12 +85,13 @@ var searchBox = new SearchBox("searchBox", "search",false,'Search');
 </div><!--header-->
 <div class="contents">
 <div class="textblock"><code>#include &quot;<a class="el" href="batchcommandprocessor_8h_source.html">batchcommandprocessor.h</a>&quot;</code><br/>
+<code>#include &lt;iostream&gt;</code><br/>
 </div><div class="textblock"><div class="dynheader">
 Include dependency graph for batchcommandprocessor.cpp:</div>
 <div class="dyncontent">
 <div class="center"><img src="batchcommandprocessor_8cpp__incl.png" border="0" usemap="#batchcommandprocessor_8cpp" alt=""/></div>
 <map name="batchcommandprocessor_8cpp" id="batchcommandprocessor_8cpp">
-<area shape="rect" id="node2" href="batchcommandprocessor_8h.html" title="batchcommandprocessor.h" alt="" coords="35,80,213,107"/><area shape="rect" id="node4" href="structs_8h.html" title="structs.h" alt="" coords="123,229,196,256"/><area shape="rect" id="node8" href="commandprocessor_8h.html" title="commandprocessor.h" alt="" coords="161,155,308,181"/><area shape="rect" id="node10" href="icommandprocessor_8h.html" title="icommandprocessor.h" alt="" coords="366,229,516,256"/></map>
+<area shape="rect" id="node2" href="batchcommandprocessor_8h.html" title="batchcommandprocessor.h" alt="" coords="512,80,691,107"/><area shape="rect" id="node9" href="structs_8h.html" title="structs.h" alt="" coords="86,229,159,256"/><area shape="rect" id="node12" href="commandprocessor_8h.html" title="commandprocessor.h" alt="" coords="211,155,357,181"/><area shape="rect" id="node14" href="icommandprocessor_8h.html" title="icommandprocessor.h" alt="" coords="379,229,529,256"/></map>
 </div>
 </div></div><!-- contents -->
 <!-- start footer part -->

diff --git a/version_8h.html b/version_8h.html
@@ -91,7 +91,7 @@ var searchBox = new SearchBox("searchBox", "search",false,'Search');
 <table class="memberdecls">
 <tr class="heading"><td colspan="2"><h2 class="groupheader"><a name="define-members"></a>
 Macros</h2></td></tr>
-<tr class="memitem:a4a5fc96a4bdd7d68ed99ccce9ca2e77e"><td class="memItemLeft" align="right" valign="top">#define&#160;</td><td class="memItemRight" valign="bottom"><a class="el" href="version_8h.html#a4a5fc96a4bdd7d68ed99ccce9ca2e77e">PROJECT_VERSION_PATCH</a>&#160;&#160;&#160;27</td></tr>
+<tr class="memitem:a4a5fc96a4bdd7d68ed99ccce9ca2e77e"><td class="memItemLeft" align="right" valign="top">#define&#160;</td><td class="memItemRight" valign="bottom"><a class="el" href="version_8h.html#a4a5fc96a4bdd7d68ed99ccce9ca2e77e">PROJECT_VERSION_PATCH</a>&#160;&#160;&#160;28</td></tr>
 <tr class="separator:a4a5fc96a4bdd7d68ed99ccce9ca2e77e"><td class="memSeparator" colspan="2">&#160;</td></tr>
 </table>
 <h2 class="groupheader">Macro Definition Documentation</h2>
@@ -100,7 +100,7 @@ Macros</h2></td></tr>
 <div class="memproto">
       <table class="memname">
         <tr>
-          <td class="memname">#define PROJECT_VERSION_PATCH&#160;&#160;&#160;27</td>
+          <td class="memname">#define PROJECT_VERSION_PATCH&#160;&#160;&#160;28</td>
         </tr>
       </table>
 </div><div class="memdoc">

diff --git a/version_8h_source.html b/version_8h_source.html
@@ -86,7 +86,7 @@ var searchBox = new SearchBox("searchBox", "search",false,'Search');
 <div class="contents">
 <a href="version_8h.html">Go to the documentation of this file.</a><div class="fragment"><div class="line"><a name="l00001"></a><span class="lineno">    1</span>&#160;<span class="preprocessor">#pragma once</span></div>
 <div class="line"><a name="l00002"></a><span class="lineno">    2</span>&#160;<span class="preprocessor"></span></div>
-<div class="line"><a name="l00003"></a><span class="lineno"><a class="line" href="version_8h.html#a4a5fc96a4bdd7d68ed99ccce9ca2e77e">    3</a></span>&#160;<span class="preprocessor">#define PROJECT_VERSION_PATCH 27</span></div>
+<div class="line"><a name="l00003"></a><span class="lineno"><a class="line" href="version_8h.html#a4a5fc96a4bdd7d68ed99ccce9ca2e77e">    3</a></span>&#160;<span class="preprocessor">#define PROJECT_VERSION_PATCH 28</span></div>
 </div><!-- fragment --></div><!-- contents -->
 <!-- start footer part -->
 <hr class="footer"/><address class="footer"><small>
